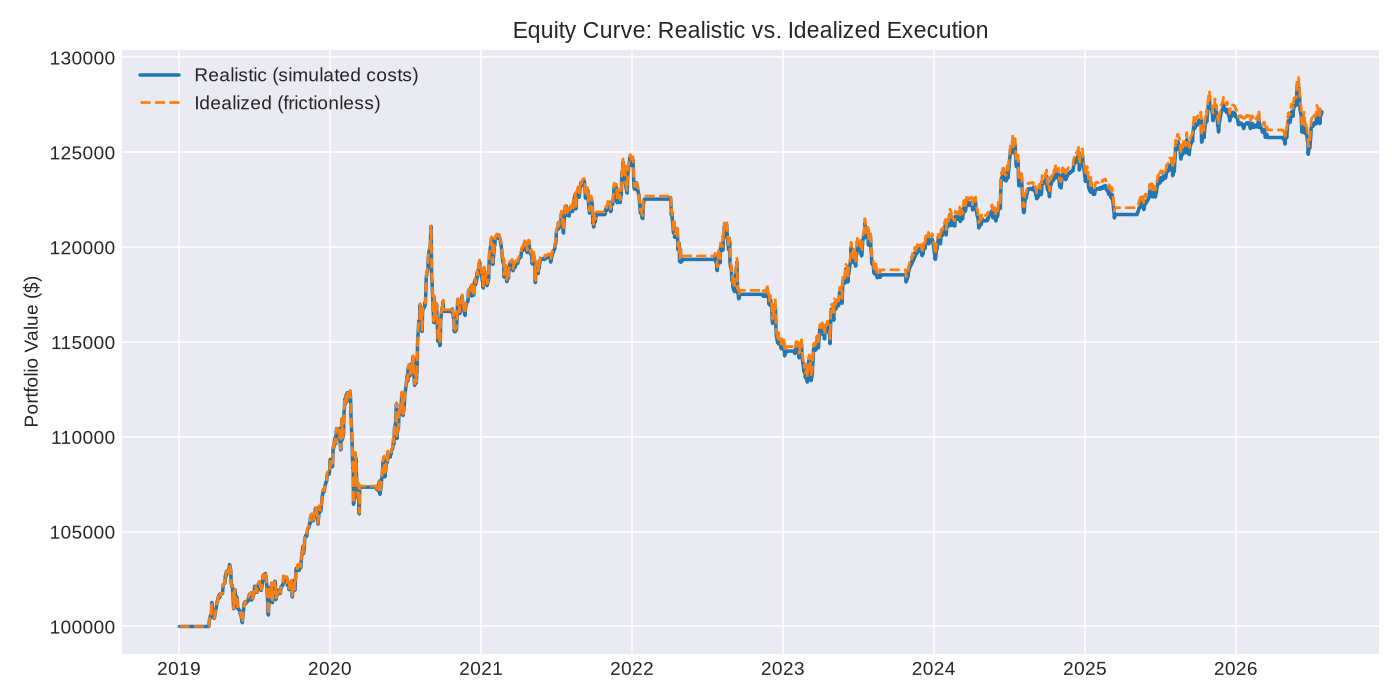
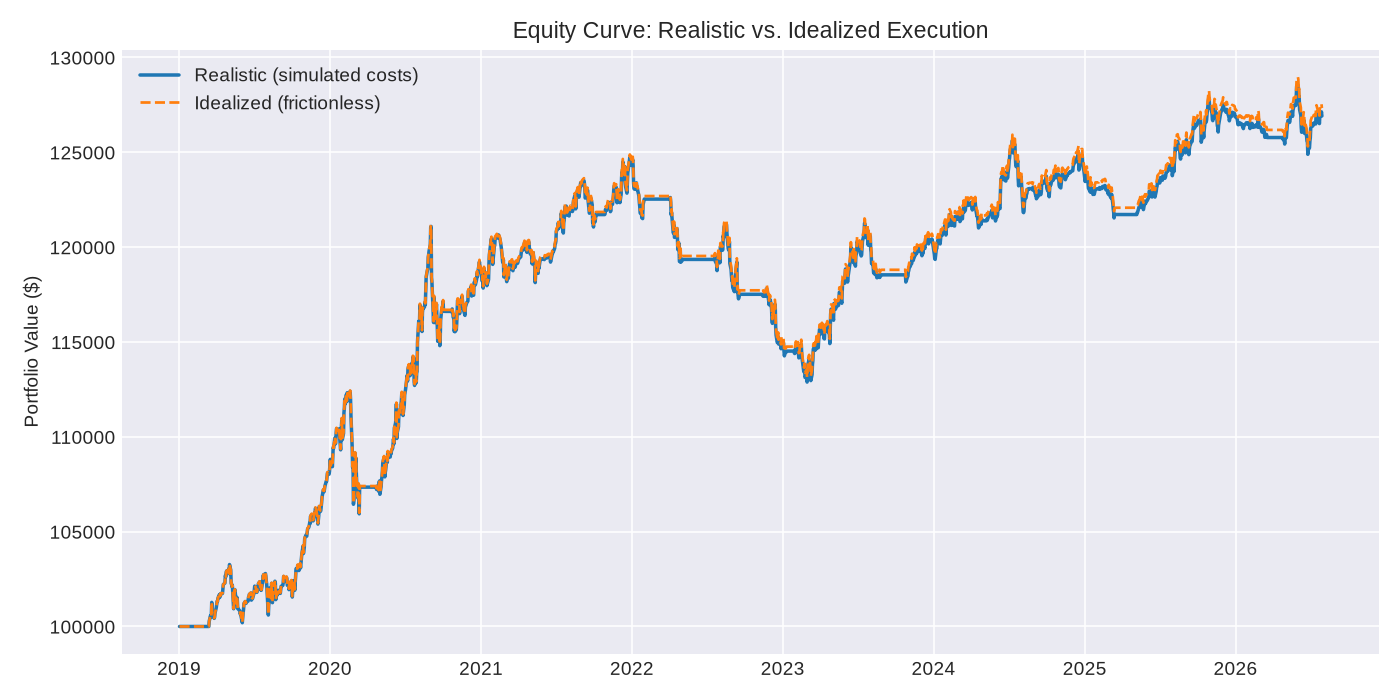
deploy: b107f69ee027853f7ae2db91135c5fa1d3b0dada

diff --git a/index.html b/index.html
@@ -11,9 +11,9 @@ img { max-width: 100%; margin-bottom: 24px; border: 1px solid #30363d; border-ra
 </style></head>
 <body>
 <h1>Event-Driven Backtest Tearsheet</h1>
-<p class="timestamp">Auto-generated 2026-07-29 07:51 UTC — this page regenerates every scheduled run, no manual step involved.</p>
+<p class="timestamp">Auto-generated 2026-07-30 06:45 UTC — this page regenerates every scheduled run, no manual step involved.</p>
 <h2>Summary</h2>
-<table><tr><td>Initial Capital</td><td>100000</td></tr><tr><td>Final Equity Realistic</td><td>127,134.5691</td></tr><tr><td>Final Equity Idealized</td><td>127,556.8332</td></tr><tr><td>Realistic Pnl</td><td>27,134.5691</td></tr><tr><td>Idealized Pnl</td><td>27,556.8332</td></tr><tr><td>Execution Cost Drag</td><td>422.2640</td></tr><tr><td>Execution Cost Drag Pct Of Idealized</td><td>0.0153</td></tr><tr><td>Total Return Pct</td><td>0.2713</td></tr><tr><td>Annualized Return</td><td>0.0323</td></tr><tr><td>Sharpe Ratio</td><td>0.7426</td></tr><tr><td>Sortino Ratio</td><td>0.8102</td></tr><tr><td>Max Drawdown</td><td>-0.0950</td></tr><tr><td>Turnover</td><td>10.2378</td></tr><tr><td>Num Fills</td><td>118</td></tr><tr><td>Total Slippage Dollars</td><td>303.9057</td></tr><tr><td>Total Commission Dollars</td><td>118.3584</td></tr><tr><td>Avg Latency Ms</td><td>82.0286</td></tr><tr><td>Num Partial Fills</td><td>0</td></tr></table>
+<table><tr><td>Initial Capital</td><td>100000</td></tr><tr><td>Final Equity Realistic</td><td>126,913.5094</td></tr><tr><td>Final Equity Idealized</td><td>127,335.7735</td></tr><tr><td>Realistic Pnl</td><td>26,913.5094</td></tr><tr><td>Idealized Pnl</td><td>27,335.7735</td></tr><tr><td>Execution Cost Drag</td><td>422.2641</td></tr><tr><td>Execution Cost Drag Pct Of Idealized</td><td>0.0154</td></tr><tr><td>Total Return Pct</td><td>0.2691</td></tr><tr><td>Annualized Return</td><td>0.0321</td></tr><tr><td>Sharpe Ratio</td><td>0.7371</td></tr><tr><td>Sortino Ratio</td><td>0.8046</td></tr><tr><td>Max Drawdown</td><td>-0.0950</td></tr><tr><td>Turnover</td><td>10.2374</td></tr><tr><td>Num Fills</td><td>118</td></tr><tr><td>Total Slippage Dollars</td><td>303.9057</td></tr><tr><td>Total Commission Dollars</td><td>118.3584</td></tr><tr><td>Avg Latency Ms</td><td>82.0286</td></tr><tr><td>Num Partial Fills</td><td>0</td></tr></table>
 <h2>Equity Curve</h2>
 <img src="equity_curve.png">
 <h2>Drawdown</h2>
